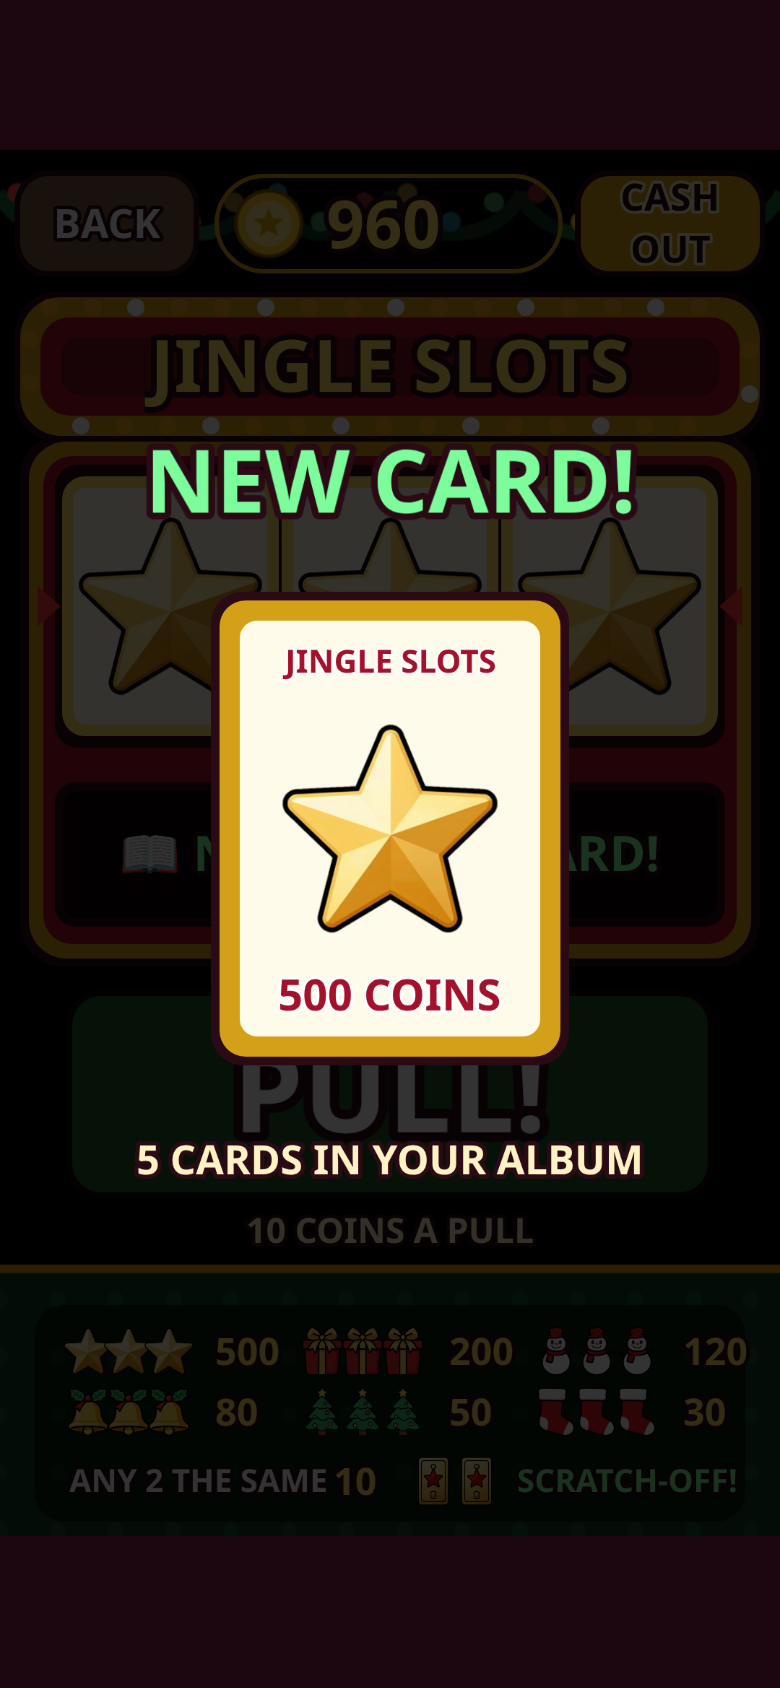
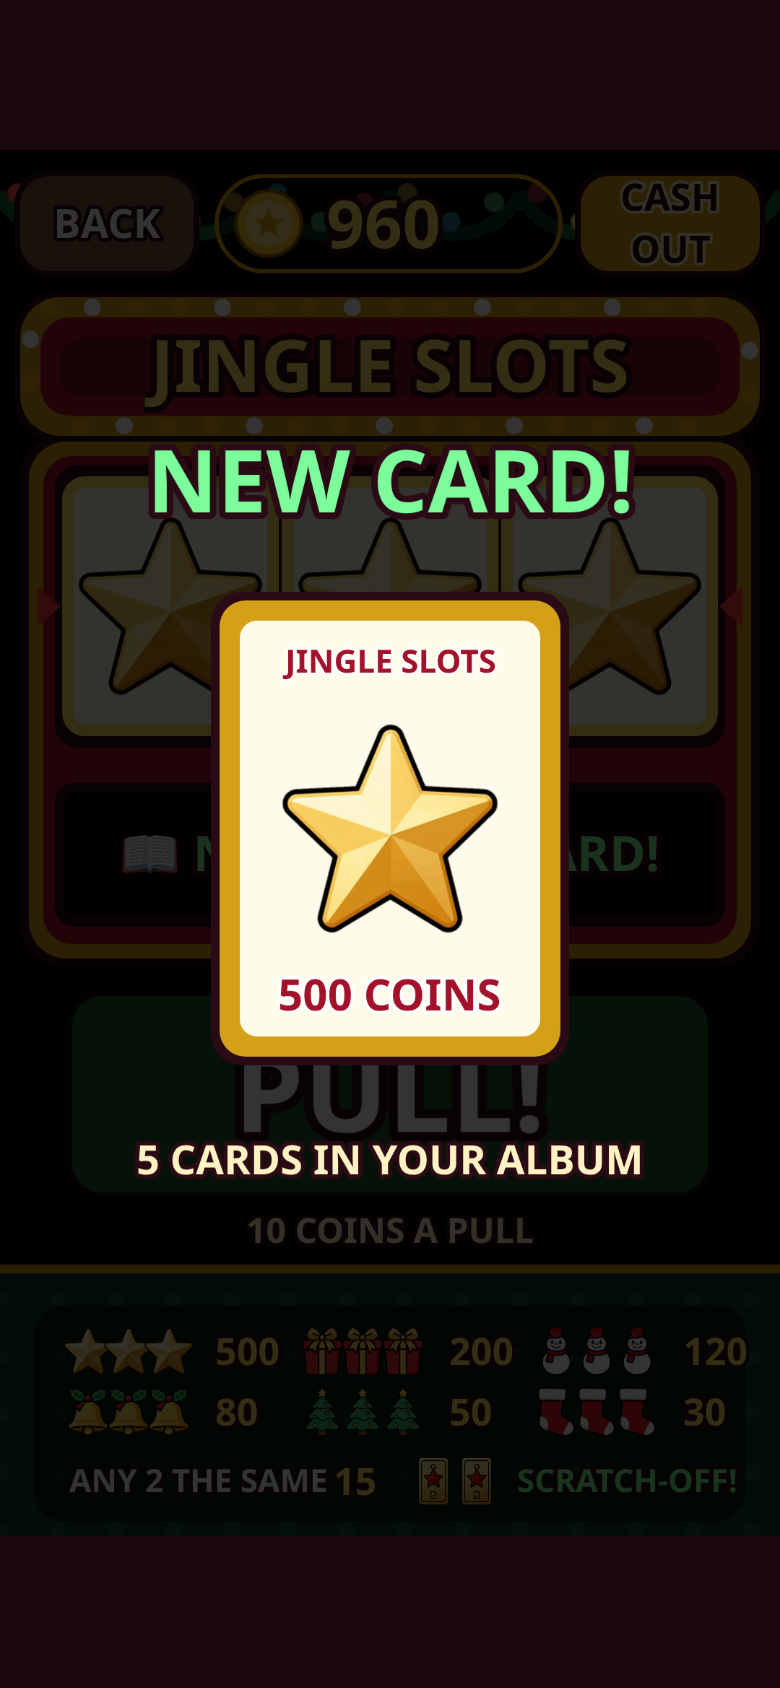
Kinder odds: two the same pays 15
Two the same now pays 15, more than a pull costs, and big lines come a
little more often, so good games keep going until you cash out and more of
them open the next machines. Scratch-offs win a little less often to keep
it from running away.

Claude-Session: https://claude.ai/code/session_01GH9Mwo8HgcF8mLpfqQMFkf

diff --git a/js/scenes/PlayScene.js b/js/scenes/PlayScene.js
@@ -5,7 +5,7 @@
 import * as audio from "../audio.js";
 import * as store from "../storage.js";
 import { art, machine } from "../machines.js";
-import { BET, BIG_WIN, START_COINS, SYMBOLS, TICKET, canPull, santaVisit, scratchTicket, spin } from "../rules.js";
+import { BET, BIG_WIN, PAIR_PAY, START_COINS, SYMBOLS, TICKET, canPull, santaVisit, scratchTicket, spin } from "../rules.js";
 import { shareWin, snapshot } from "../share.js";
 import { listenForTaps, near } from "../taps.js";
 import { H, W, backdrop, button, coinShower, coins, marquee, setupCamera, text } from "../ui.js";
@@ -183,7 +183,7 @@ export class PlayScene extends Phaser.Scene {
     row(832, [0, 1, 2]);
     row(874, [3, 4, 5]);
     text(this, 46, 922, "ANY 2 THE SAME", 22, { originX: 0, strokeThickness: 4 });
-    text(this, 228, 922, "10", 26, { originX: 0, color: "#ffe066", strokeThickness: 5 });
+    text(this, 228, 922, String(PAIR_PAY), 26, { originX: 0, color: "#ffe066", strokeThickness: 5 });
     this.picture(300, 922, TICKET, 34);
     this.picture(330, 922, TICKET, 34);
     text(this, 356, 922, "SCRATCH-OFF!", 22, { originX: 0, color: "#7CFC9A", strokeThickness: 4 });

diff --git a/js/rules.js b/js/rules.js
@@ -18,7 +18,7 @@ export const SYMBOLS = [
   { weight: 3, pay: 0 }, // the ticket
 ];
 export const TICKET = 6;
-export const PAIR_PAY = 10; // any two the same (not tickets)
+export const PAIR_PAY = 15; // any two the same (not tickets)
 export const BIG_WIN = 100; // a win this size gets the big cheer and the share button
 
 function pickWeighted(items, rng) {
@@ -42,7 +42,7 @@ export function judge(line) {
 
 // Now and then a pull lines up three of the four best pictures (the bigger the pay, the rarer), so the
 // big wins come round more often than the reels alone would bring them.
-export const LUCKY_CHANCE = 0.008;
+export const LUCKY_CHANCE = 0.006;
 const LUCKY = [0, 1, 2, 3].map((kind) => ({ kind, weight: kind + 1 }));
 
 export function spin(rng = Math.random) {
@@ -72,7 +72,7 @@ const SCRATCH_PRIZES = [
   { coins: 250, weight: 12 },
   { coins: 500, weight: 6 },
 ];
-export const SCRATCH_WIN_CHANCE = 0.6;
+export const SCRATCH_WIN_CHANCE = 0.45;
 export const TICKET_TYPES = ["match3", "gifts", "lucky", "tictac"];
 
 function shuffle(list, rng) {
